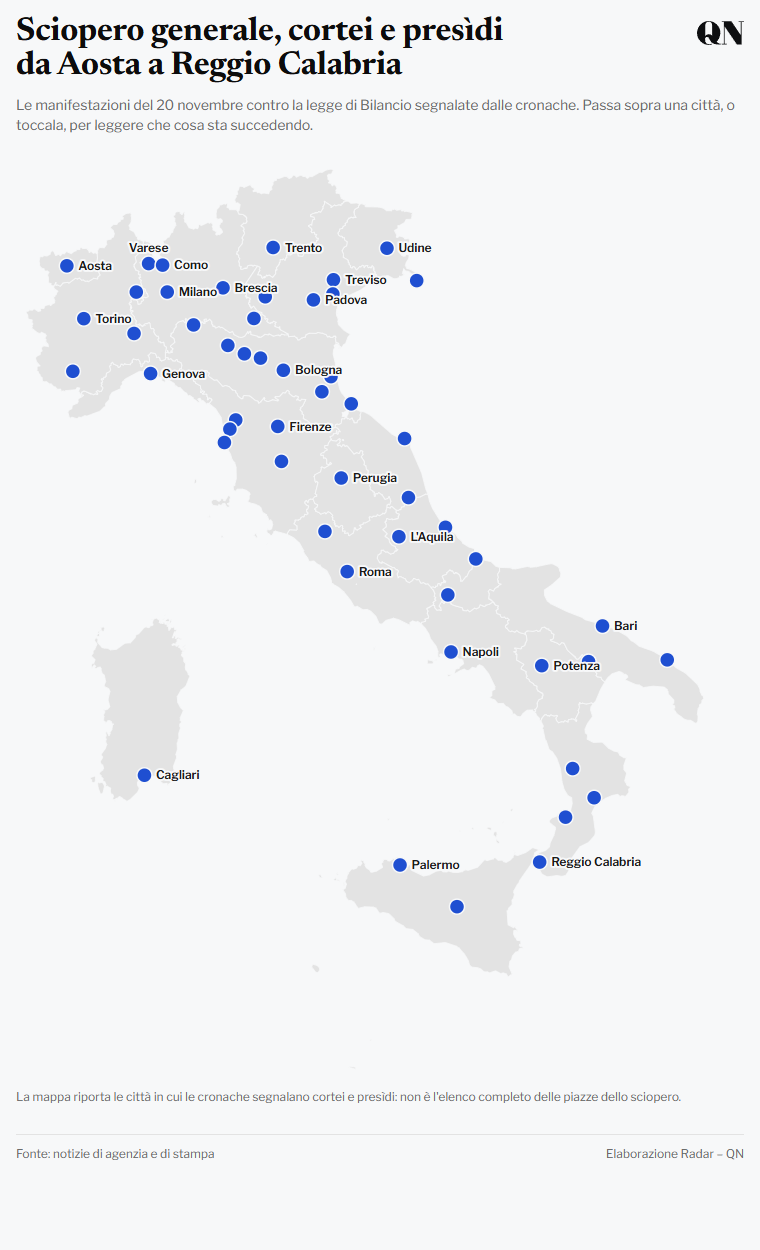
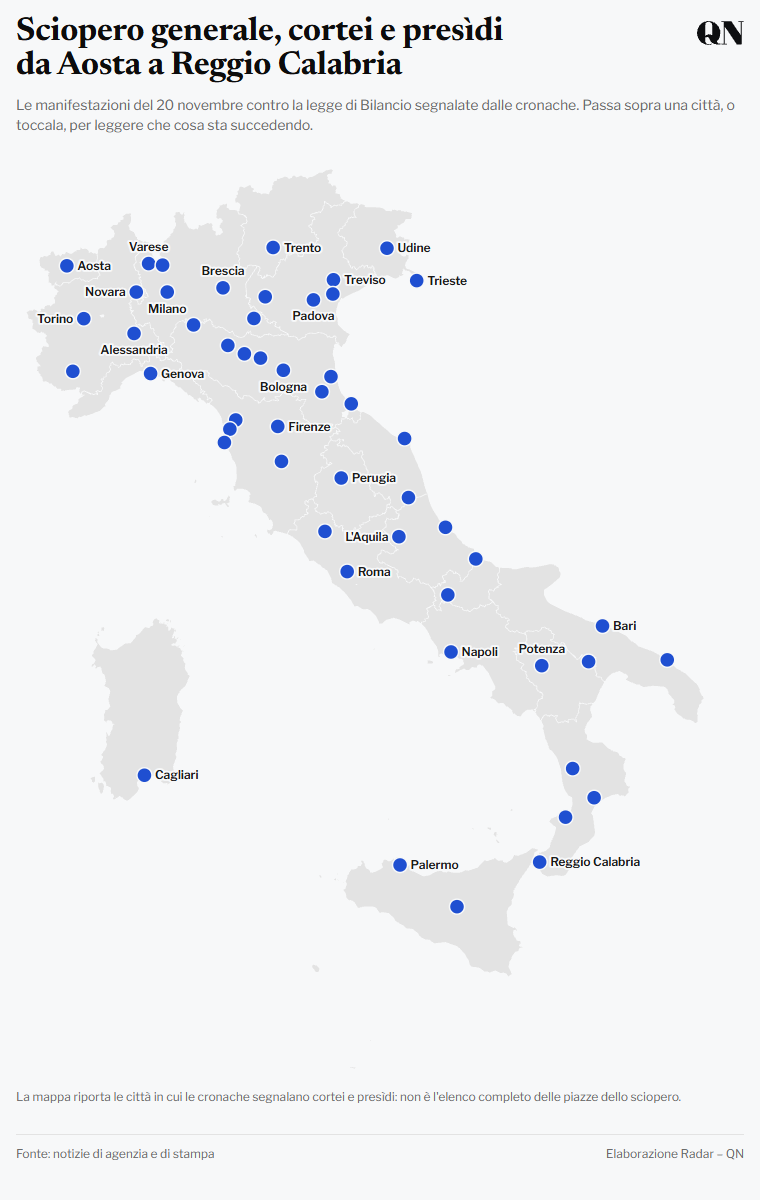
Etichette che non coprono mai i pallini

diff --git a/mappa/index.html b/mappa/index.html
@@ -56,7 +56,8 @@
   Promise.all([
     Radar.loadCSV("../data/cortei.csv"),
     Radar.loadCSV("../data/citta.csv"),
-    fetch("../data/regioni.json", { cache: "no-cache" }).then(function (r) { return r.json(); })
+    fetch("../data/regioni.json", { cache: "no-cache" }).then(function (r) { return r.json(); }),
+    document.fonts && document.fonts.ready   // le etichette si misurano con il font giusto
   ]).then(function (res) {
     var coord = {};
     res[1].forEach(function (c) { coord[c.citta] = [Radar.num(c.lon), Radar.num(c.lat)]; });
@@ -121,33 +122,43 @@
         function (s) { s.attr("r", R); },
         function (d, i) { return i * 12; });
 
-      // ---- etichette: città in corso, per priorità, senza sovrapposizioni ----
-      var pallini = dati.map(function (d) { return [d.x - R, d.y - R, d.x + R, d.y + R]; }), occupati = [];
-      function vuoto(b, lista) { return lista.every(function (o) { return b[2] < o[0] || b[0] > o[2] || b[3] < o[1] || b[1] > o[3]; }); }
-      // le città della lista PRIORITA possono coprire un pallino vicino, mai un'altra etichetta
-      function libero(b, top) {
+      // ---- etichette: per priorità, senza coprire pallini né altre etichette ----
+      var M = 2;   // margine attorno a pallini (con il loro bordo) ed etichette
+      var occupati = dati.map(function (d) { return [d.x - R - M, d.y - R - M, d.x + R + M, d.y + R + M]; });
+      function libero(b) {
         if (b[0] < 0 || b[2] > W || b[1] < 0 || b[3] > H) return false;
-        return vuoto(b, occupati) && (top || vuoto(b, pallini));
+        return occupati.every(function (o) { return b[2] < o[0] || b[0] > o[2] || b[3] < o[1] || b[1] > o[3]; });
       }
-      var fs = narrow ? 11 : 12, cw = fs * 0.56;
+      var fs = narrow ? 11 : 12;
+      // larghezza vera del testo, misurata con il font della pagina
+      var misura = svg.append("text").attr("class", "etichetta" + (narrow ? " etichetta--min" : "")).style("visibility", "hidden");
+      function larghezza(s) { misura.text(s); return misura.node().getComputedTextLength(); }
       var candidati = dati.slice().sort(function (a, b) {
         var pa = PRIORITA.indexOf(a.citta), pb = PRIORITA.indexOf(b.citta);
         return (pa < 0 ? 99 : pa) - (pb < 0 ? 99 : pb);
       });
-      var maxEt = narrow ? 9 : 22, et = [];
+      var maxEt = narrow ? 10 : 24, et = [];
       candidati.forEach(function (d) {
         if (et.length >= maxEt) return;
-        var w = nome(d.citta).length * cw + 2, h = fs;
+        var w = larghezza(nome(d.citta)), h = fs, g = R + 3, k = R * 0.7 + 2;
         var pos = [
-          { x: d.x + R + 4, y: d.y + h * 0.35, a: "start", b: [d.x + R + 3, d.y - h / 2, d.x + R + 5 + w, d.y + h / 2] },
-          { x: d.x - R - 4, y: d.y + h * 0.35, a: "end", b: [d.x - R - 5 - w, d.y - h / 2, d.x - R - 3, d.y + h / 2] },
-          { x: d.x, y: d.y - R - 4, a: "middle", b: [d.x - w / 2, d.y - R - 4 - h, d.x + w / 2, d.y - R - 3] },
-          { x: d.x, y: d.y + R + h + 1, a: "middle", b: [d.x - w / 2, d.y + R + 2, d.x + w / 2, d.y + R + h + 3] }
+          { x: d.x + g, y: d.y + h * 0.35, a: "start", b: [d.x + g, d.y - h / 2, d.x + g + w, d.y + h / 2] },
+          { x: d.x - g, y: d.y + h * 0.35, a: "end", b: [d.x - g - w, d.y - h / 2, d.x - g, d.y + h / 2] },
+          { x: d.x, y: d.y - g - 2, a: "middle", b: [d.x - w / 2, d.y - g - h, d.x + w / 2, d.y - g] },
+          { x: d.x, y: d.y + g + h - 2, a: "middle", b: [d.x - w / 2, d.y + g, d.x + w / 2, d.y + g + h] },
+          { x: d.x + k, y: d.y - k - 2, a: "start", b: [d.x + k, d.y - k - h, d.x + k + w, d.y - k] },
+          { x: d.x + k, y: d.y + k + h - 2, a: "start", b: [d.x + k, d.y + k, d.x + k + w, d.y + k + h] },
+          { x: d.x - k, y: d.y - k - 2, a: "end", b: [d.x - k - w, d.y - k - h, d.x - k, d.y - k] },
+          { x: d.x - k, y: d.y + k + h - 2, a: "end", b: [d.x - k - w, d.y + k, d.x - k, d.y + k + h] }
         ];
         for (var i = 0; i < pos.length; i++) {
-          if (libero(pos[i].b, PRIORITA.indexOf(d.citta) > -1)) { occupati.push(pos[i].b); et.push({ d: d, p: pos[i] }); return; }
+          if (libero(pos[i].b)) {
+            var b = pos[i].b; occupati.push([b[0] - M, b[1] - M, b[2] + M, b[3] + M]);
+            et.push({ d: d, p: pos[i] }); return;
+          }
         }
       });
+      misura.remove();
       var etichette = svg.selectAll("g.etichette").data([0]).join("g").attr("class", "etichette")
         .selectAll("text").data(et, function (e) { return e.d.citta; }).join("text")
         .attr("class", "etichetta" + (narrow ? " etichetta--min" : ""))
